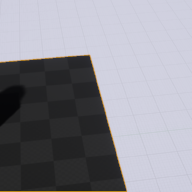
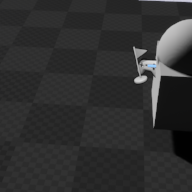
added trigger volume to door

diff --git a/Section_03/BuildingEscape/Source/BuildingEscape/PositionReport.cpp b/Section_03/BuildingEscape/Source/BuildingEscape/PositionReport.cpp
@@ -1,34 +1,35 @@
 // Fill out your copyright notice in the Description page of Project Settings.
 
 #include "PositionReport.h"
+#include "GameFramework/Actor.h"
 
 
 // Sets default values for this component's properties
-UPositionReport::UPositionReport()
-{
-	// Set this component to be initialized when the game starts, and to be ticked every frame.  You can turn these features
-	// off to improve performance if you don't need them.
-	PrimaryComponentTick.bCanEverTick = true;
-
-	// ...
+UPositionReport::UPositionReport() {
+    // Set this component to be initialized when the game starts, and to be ticked every frame.  You can turn these features
+    // off to improve performance if you don't need them.
+    PrimaryComponentTick.bCanEverTick = true;
+    // ...
 }
 
 
 // Called when the game starts
-void UPositionReport::BeginPlay()
-{
-	Super::BeginPlay();
+void UPositionReport::BeginPlay() {
+    Super::BeginPlay();
 
-	// ...
-	
+    FString ObjectPos = GetOwner()->GetTransform().GetLocation().ToString();
+    FString ObjectName = GetOwner()->GetName();
+
+    UE_LOG(LogTemp, Warning, TEXT("%s is at %s"), *ObjectName, *ObjectPos);
+    // ...
+
 }
 
 
 // Called every frame
-void UPositionReport::TickComponent(float DeltaTime, ELevelTick TickType, FActorComponentTickFunction* ThisTickFunction)
-{
-	Super::TickComponent(DeltaTime, TickType, ThisTickFunction);
+void UPositionReport::TickComponent(float DeltaTime, ELevelTick TickType, FActorComponentTickFunction *ThisTickFunction) {
+    Super::TickComponent(DeltaTime, TickType, ThisTickFunction);
 
-	// ...
+    // ...
 }
 

diff --git a/Section_03/BuildingEscape/Source/BuildingEscape/OpenDoor.cpp b/Section_03/BuildingEscape/Source/BuildingEscape/OpenDoor.cpp
@@ -1,0 +1,38 @@
+// Fill out your copyright notice in the Description page of Project Settings.
+
+#include "OpenDoor.h"
+#include "GameFramework/Actor.h"
+
+
+// Sets default values for this component's properties
+UOpenDoor::UOpenDoor()
+{
+	// Set this component to be initialized when the game starts, and to be ticked every frame.  You can turn these features
+	// off to improve performance if you don't need them.
+	PrimaryComponentTick.bCanEverTick = true;
+
+	// ...
+}
+
+
+// Called when the game starts
+void UOpenDoor::BeginPlay()
+{
+	Super::BeginPlay();
+
+    AActor* Owner = GetOwner();
+	FRotator NewRotation = FRotator(0.f, -120.f, 0.f);
+	Owner->SetActorRotation(NewRotation);
+	// ...
+	
+}
+
+
+// Called every frame
+void UOpenDoor::TickComponent(float DeltaTime, ELevelTick TickType, FActorComponentTickFunction* ThisTickFunction)
+{
+	Super::TickComponent(DeltaTime, TickType, ThisTickFunction);
+
+	// ...
+}
+

diff --git a/Section_03/BuildingEscape/Source/BuildingEscape/OpenDoor.h b/Section_03/BuildingEscape/Source/BuildingEscape/OpenDoor.h
@@ -1,0 +1,36 @@
+// Fill out your copyright notice in the Description page of Project Settings.
+
+#pragma once
+
+#include "CoreMinimal.h"
+#include "Components/ActorComponent.h"
+#include "Engine/TriggerVolume.h"
+#include "OpenDoor.generated.h"
+
+
+UCLASS(ClassGroup = (Custom), meta = (BlueprintSpawnableComponent))
+
+class BUILDINGESCAPE_API UOpenDoor : public UActorComponent {
+    GENERATED_BODY()
+
+public:
+    // Sets default values for this component's properties
+    UOpenDoor();
+
+protected:
+    // Called when the game starts
+    virtual void BeginPlay() override;
+
+public:
+    // Called every frame
+    virtual void
+    TickComponent(float DeltaTime, ELevelTick TickType, FActorComponentTickFunction *ThisTickFunction) override;
+
+
+private:
+    UPROPERTY(VisibleAnywhere)
+    float OpenedAngle = 90.f;
+
+    UPROPERTY(EditAnywhere)
+    ATriggerVolume *PressurePlate;
+};
